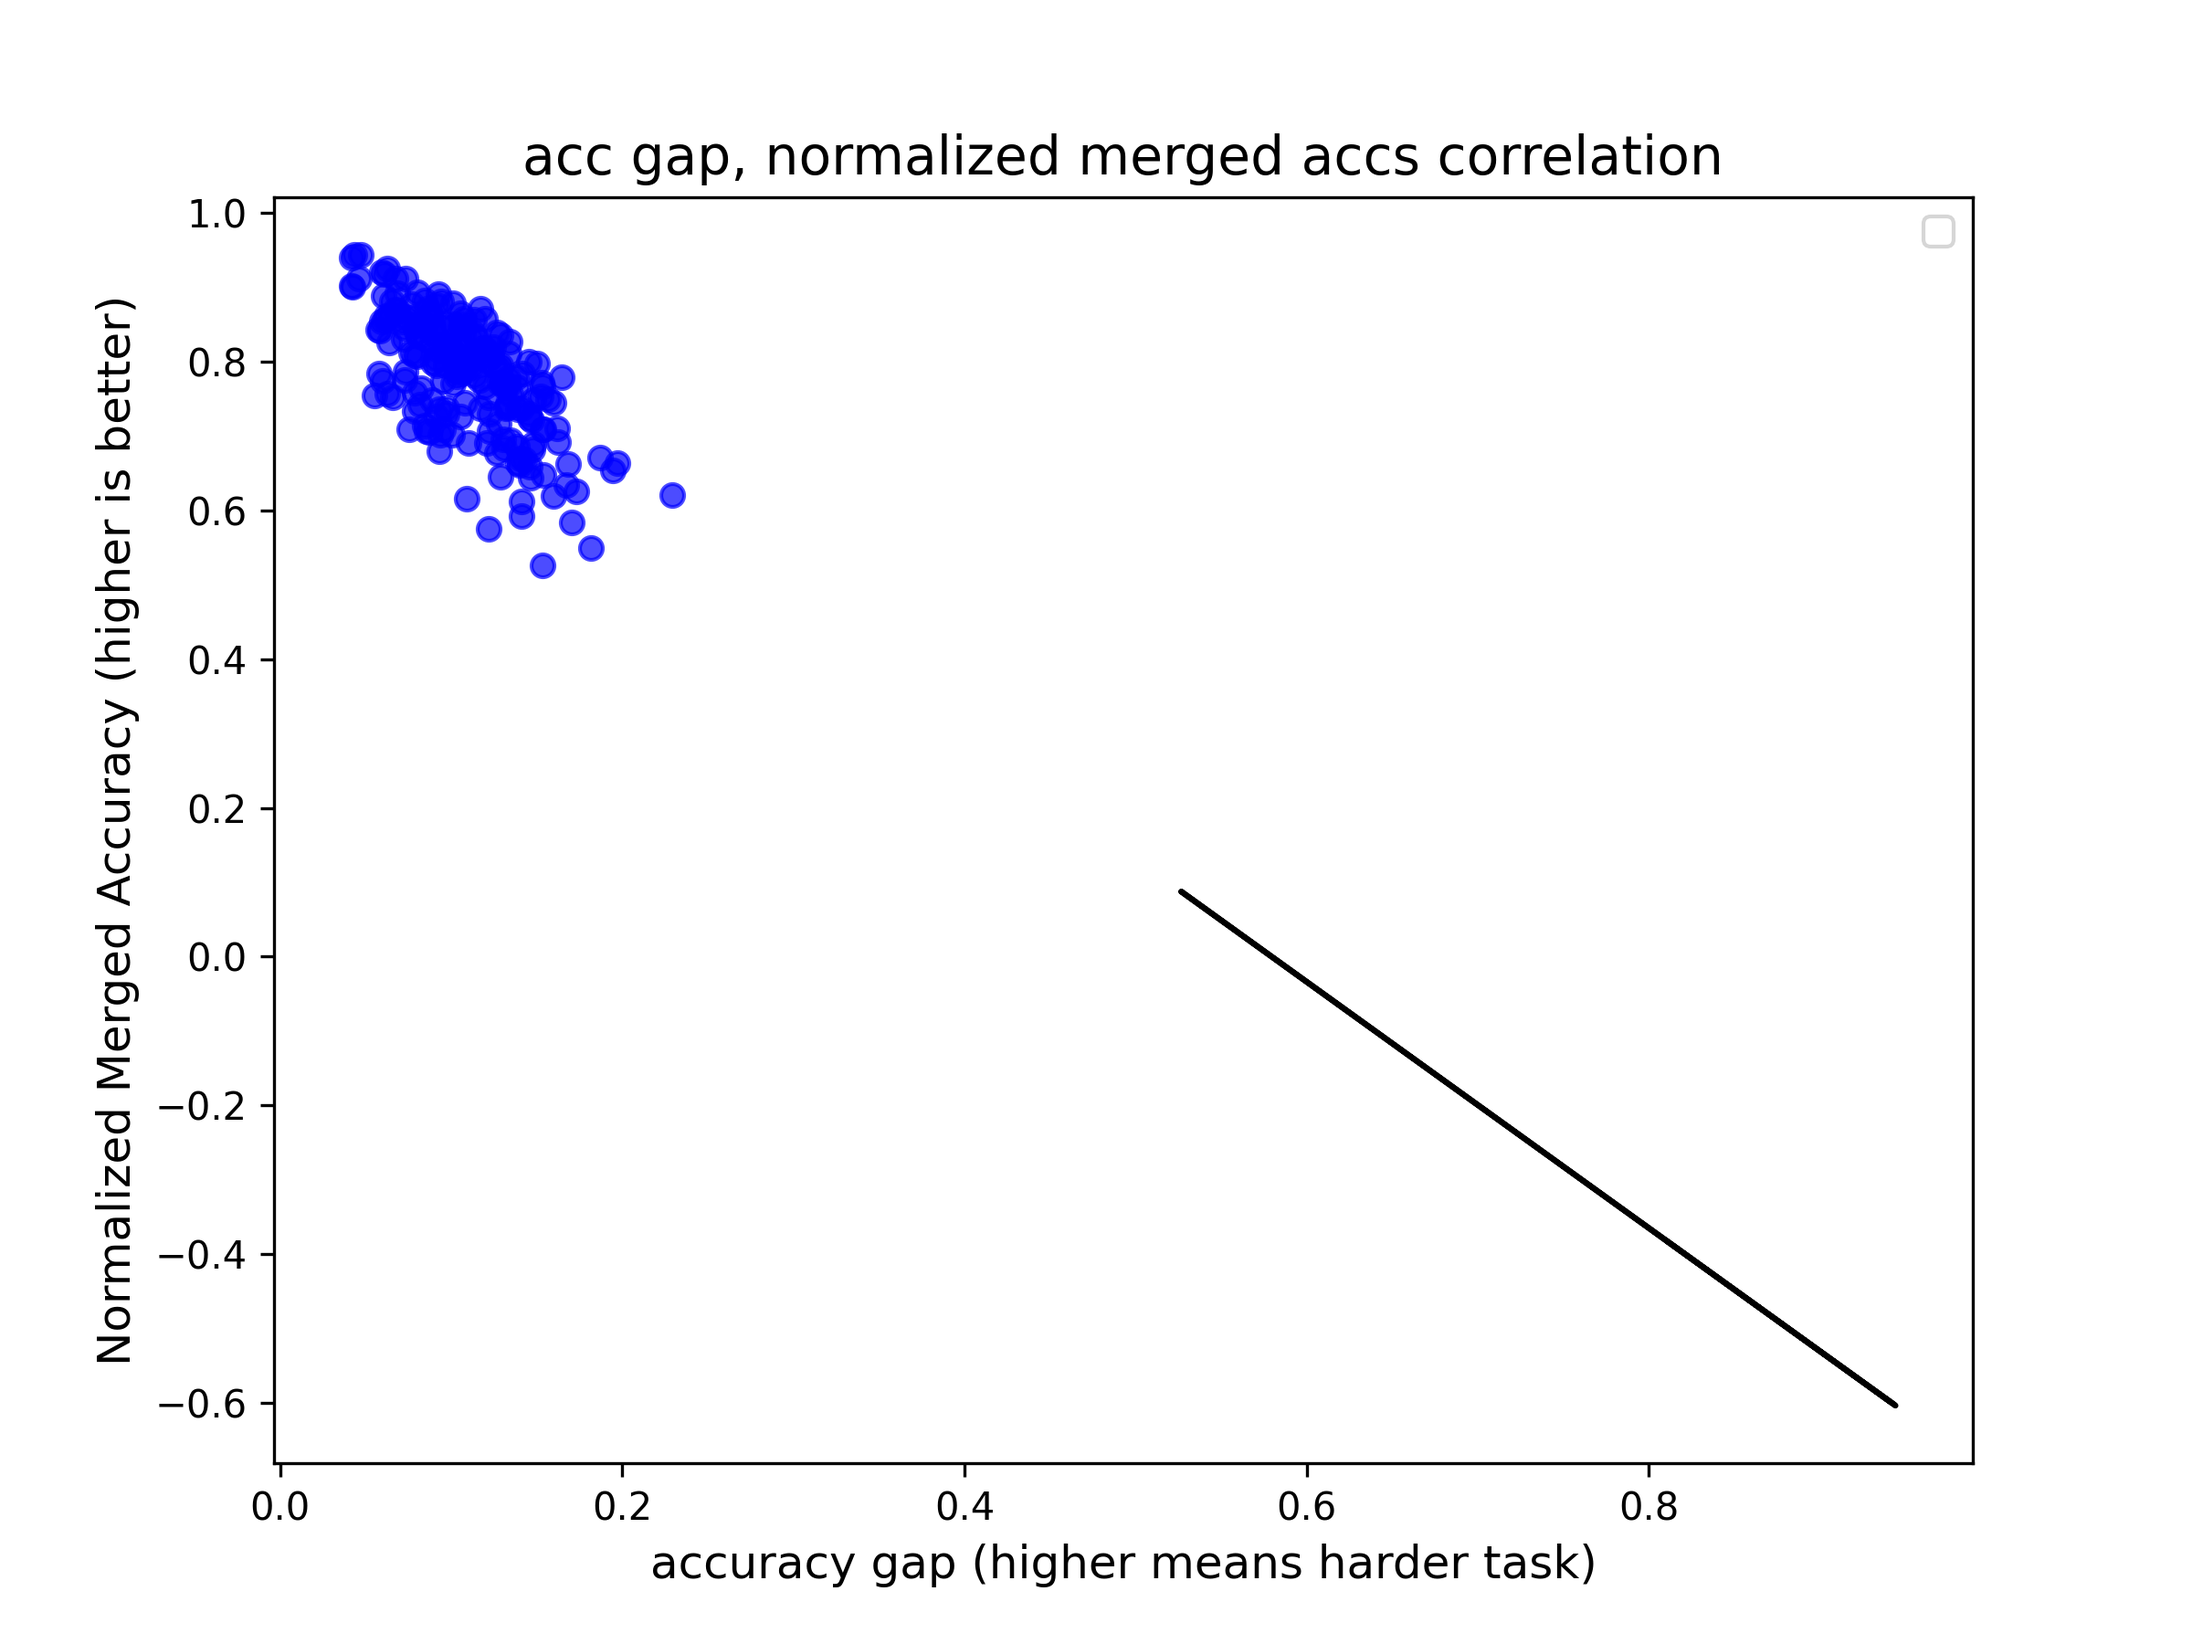
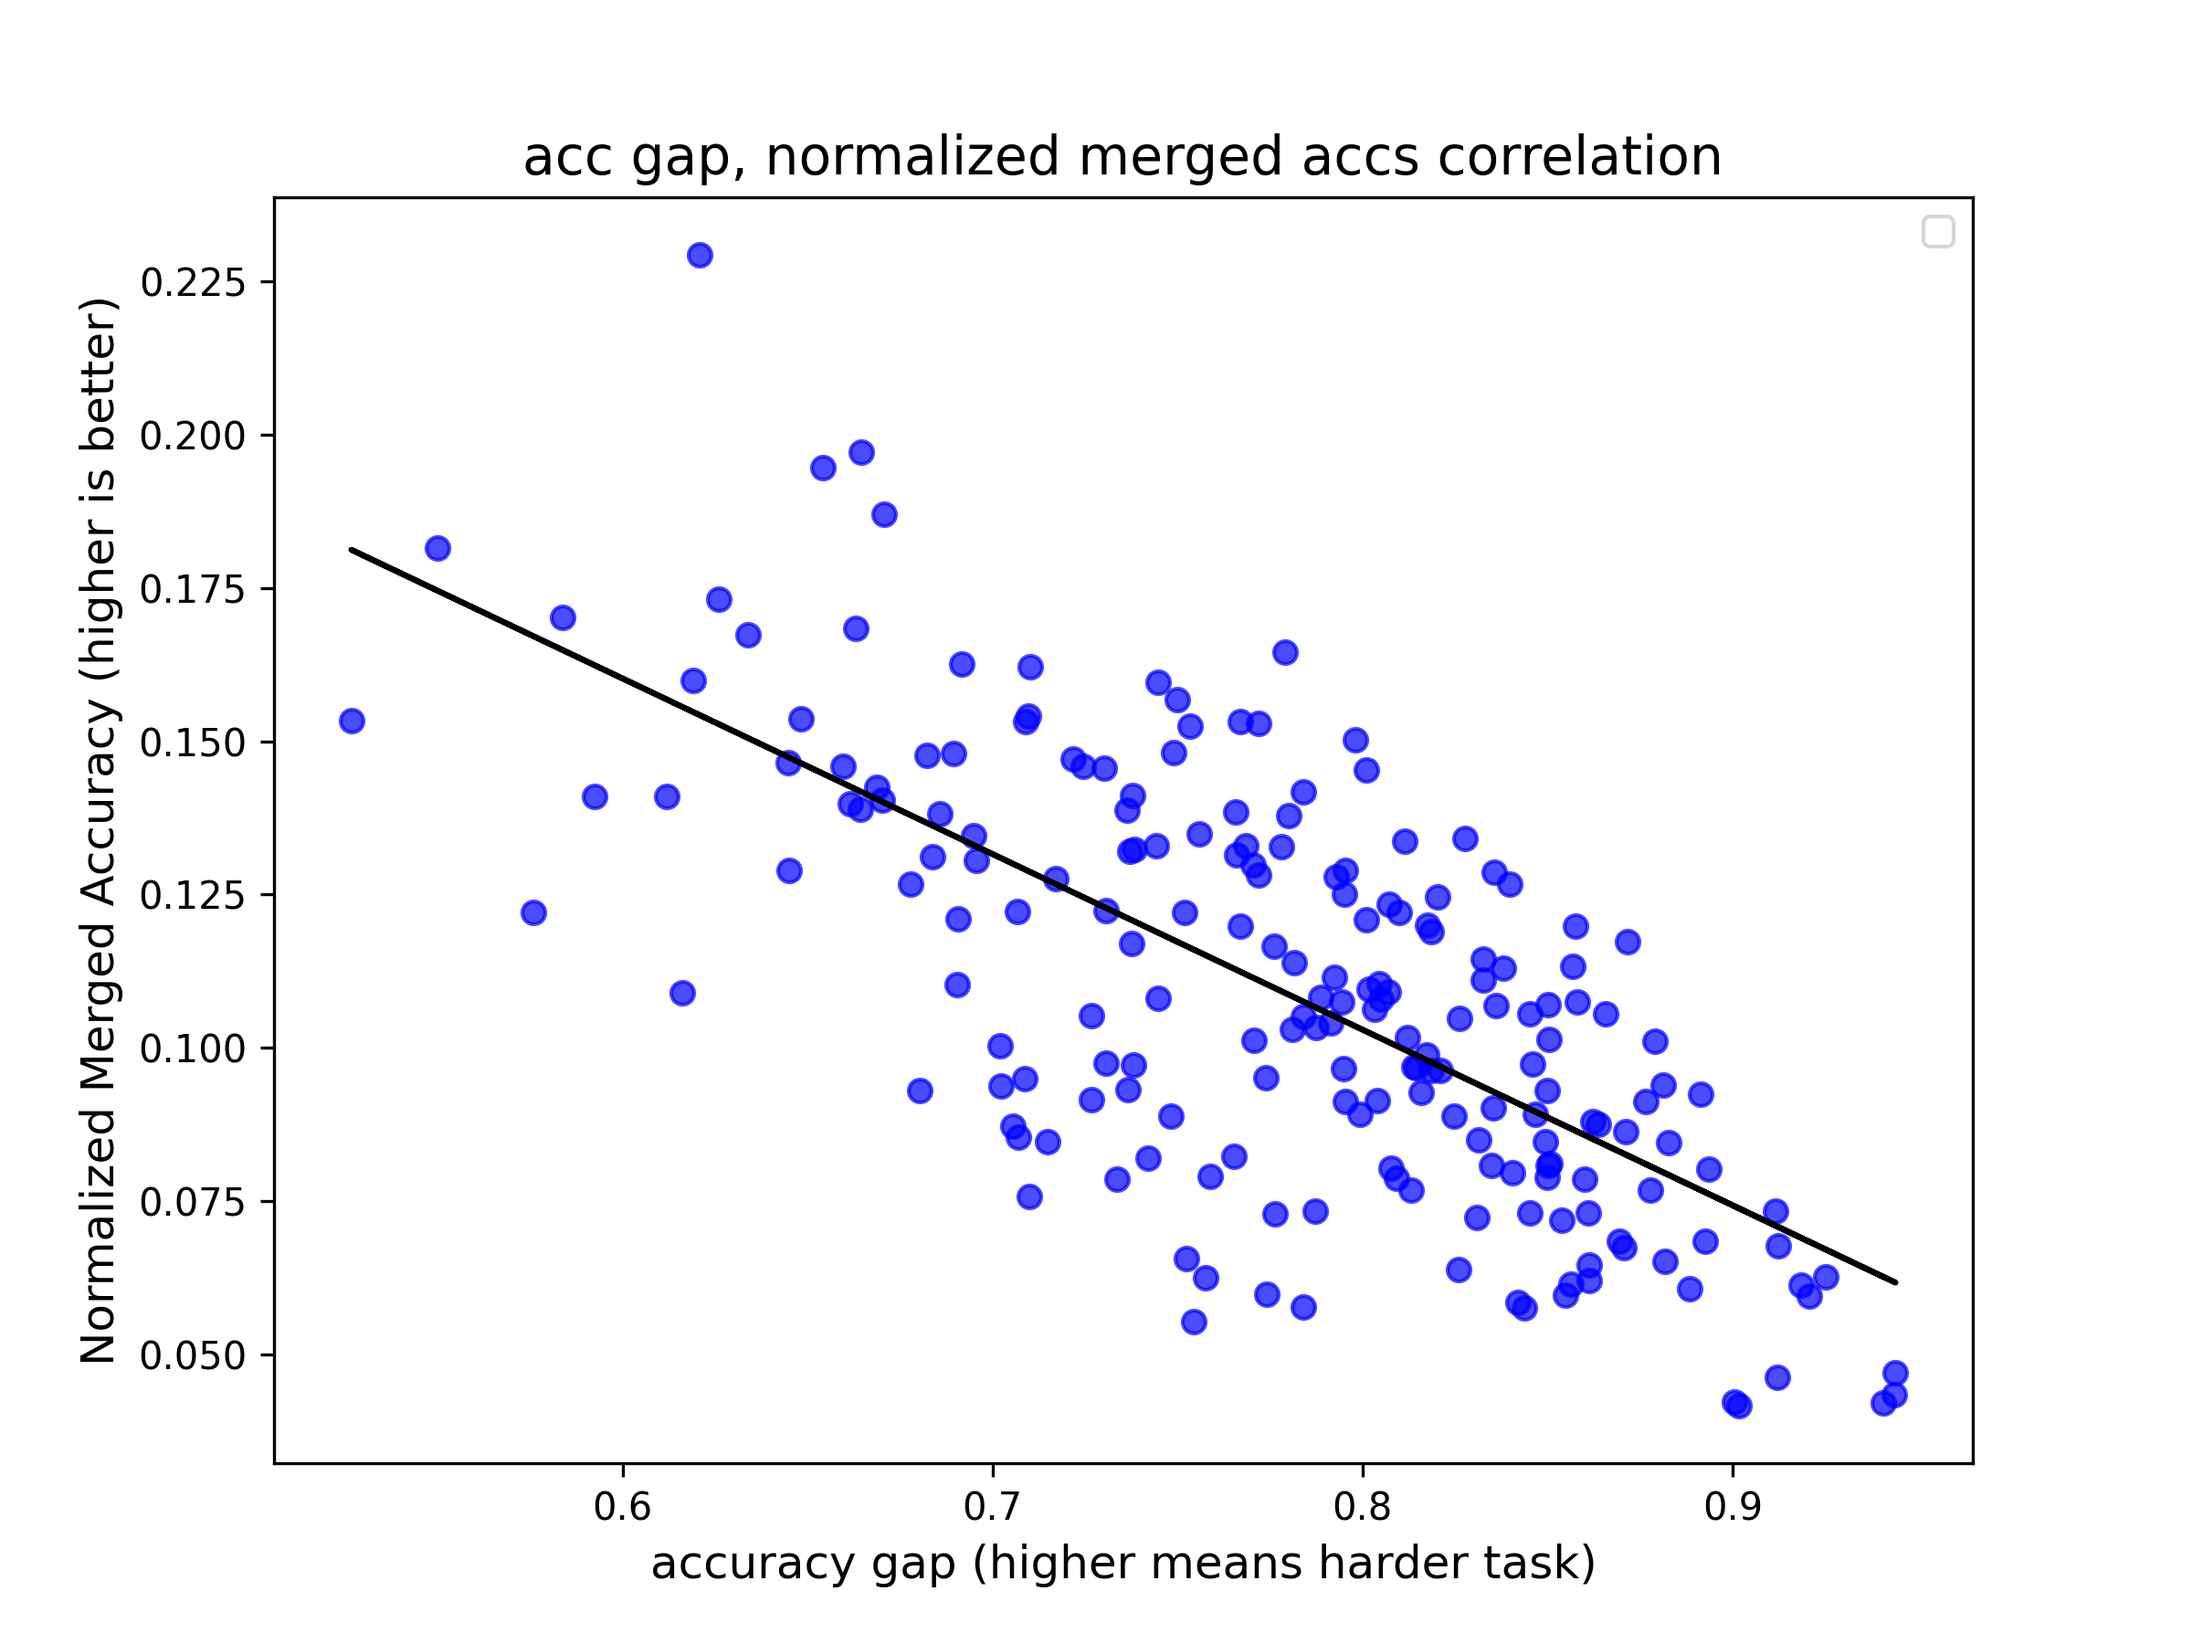
revert plot axes changes in plot_diff_metric_vs_acc.py

diff --git a/src/scripts/plot_diff_metric_vs_acc.py b/src/scripts/plot_diff_metric_vs_acc.py
@@ -311,10 +311,10 @@ def plot_or_export(
 
     # Create the scatter plot
     plt.figure(figsize=(8, 6))
-    plt.scatter(y=avg_merged_accs, x=avg_metric, color='blue', alpha=0.7)
+    plt.scatter(x=avg_merged_accs, y=avg_metric, color='blue', alpha=0.7)
 
     # Calculate the trendline (correlation line)
-    coefficients = np.polyfit(y=avg_merged_accs, x=avg_metric, deg=1)  # Linear fit (degree=1)
+    coefficients = np.polyfit(x=avg_merged_accs, y=avg_metric, deg=1)  # Linear fit (degree=1)
     trendline = np.poly1d(coefficients)  # Create the trendline function
     trendline_values = trendline(avg_merged_accs)  # Compute y values for the trendline
 
